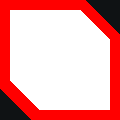
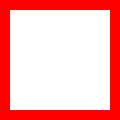
Updated look
Space background + more

Changed region(s): [[0.675, 0.0, 1.0, 0.325], [0.0, 0.675, 0.325, 1.0]]

diff --git a/index.html b/index.html
@@ -13,53 +13,53 @@
         <link rel="preconnect" href="https://fonts.googleapis.com">
         <link rel="preconnect" href="https://fonts.gstatic.com" crossorigin>
         <link href="https://fonts.googleapis.com/css2?family=Orbitron:wght@600&display=swap" rel="stylesheet"> 
-		<base href="/alphatiuswebsite/">
+		<!--<base href="/alphatiuswebsite/">-->
 		<script src="javascript/jquery-3.5.1.min.js"></script>
-		<link href="images/alphlogo.png" rel="icon">
+		<link href="images/alphatius-icon.png" rel="icon">
 		<link href="alphstyle.css" rel="stylesheet">
 		<title>Alphatius Website</title>
 </head>
 
-	<body>
-		
-		<h1><img src="images/alphlogo.png" alt="A" height="48" width="48">LPHATIUS</h1>
-		
-		<div id="navbarspot"></div>
-		
-		<h2>THE NEXT GENERATION OF ARENA-SHOOTERS IS HERE</h2>
-		<p class="uppercase">Test your skills in this fast-paced, action-packed arena</p>
-		<div class="img-container">
-			<video class="home-video" width="960" height="560" autoplay muted loop>
-				<source src="videos/home/showoff.webm" type="video/webm">
-			</video>
-		</div>
-		<h2>UNIQUE WEAPONS WITH A PLAYSTYLE FOR EVERYONE</h2>
-		<p class="uppercase">Whether you like charging in head-first, accumulating frags from afar, or something in-between,
-		there's always a weapon for you</p>
-		<div class="weap-icon-container">
-			<img class="weap-icon" src="images/weapons/photoncarbine.png" alt = "Missing IMG">
-			<img class="weap-icon" src="images/weapons/c14.png" alt = "Missing IMG">
-			<img class="weap-icon" src="images/weapons/particlesplitter.png" alt = "Missing IMG">
-			<img class="weap-icon" src="images/weapons/teslasmg.png" alt = "Missing IMG">
-			<img class="weap-icon" src="images/weapons/sparkcannon.png" alt = "Missing IMG">
-			<img class="weap-icon" src="images/weapons/flamespitter.png" alt = "Missing IMG">
-			<img class="weap-icon" src="images/weapons/beamrifle.png" alt = "Missing IMG">
-		</div>
-		<h2>USE YOUR ABILITIES TO OUTPLAY YOUR OPPONENTS</h2>
-		<p class="uppercase">Choose your abilities to further customize your playstyle</p>
-		<div class="img-container">
-			<video class="home-video" width="960" height="480" autoplay muted loop>
-				<source src="videos/home/showoff-abilities.webm" type="video/webm">
-			</video>
-		</div>
-        <br><br>
-        <!--<footer></footer>-->
-        
-		<script>
-			$(function(){
-			  $("#navbarspot").load("pages/navbar/navbar.html");
-			});
-		</script>
-	</body>
+<body>
+
+    <h1><img src="images/alphatius-logo.png" alt="ALPHATIUS"></h1>
+
+    <div id="navbarspot"></div>
+
+    <h2>THE NEXT GENERATION OF ARENA-SHOOTERS IS HERE</h2>
+    <p class="uppercase">Test your skills in this fast-paced, action-packed arena</p>
+    <div class="img-container">
+        <video class="home-video" width="960" height="560" autoplay muted loop>
+            <source src="videos/home/showoff.webm" type="video/webm">
+        </video>
+    </div>
+    <h2>UNIQUE WEAPONS WITH A PLAYSTYLE FOR EVERYONE</h2>
+    <p class="uppercase">Whether you like charging in head-first, accumulating frags from afar, or something in-between,
+    there's always a weapon for you</p>
+    <div class="weap-icon-container">
+        <img class="weap-icon" src="images/weapons/photoncarbine.png" alt = "Missing IMG">
+        <img class="weap-icon" src="images/weapons/c14.png" alt = "Missing IMG">
+        <img class="weap-icon" src="images/weapons/particlesplitter.png" alt = "Missing IMG">
+        <img class="weap-icon" src="images/weapons/teslasmg.png" alt = "Missing IMG">
+        <img class="weap-icon" src="images/weapons/sparkcannon.png" alt = "Missing IMG">
+        <img class="weap-icon" src="images/weapons/flamespitter.png" alt = "Missing IMG">
+        <img class="weap-icon" src="images/weapons/beamrifle.png" alt = "Missing IMG">
+    </div>
+    <h2>USE YOUR ABILITIES TO OUTPLAY YOUR OPPONENTS</h2>
+    <p class="uppercase">Choose your abilities to further customize your playstyle</p>
+    <div class="img-container">
+        <video class="home-video" width="960" height="480" autoplay muted loop>
+            <source src="videos/home/showoff-abilities.webm" type="video/webm">
+        </video>
+    </div>
+    <br><br>
+    <!--<footer></footer>-->
+
+    <script>
+        $(function(){
+          $("#navbarspot").load("pages/navbar.html");
+        });
+    </script>
+</body>
 
 </html>

diff --git a/alphstyle.css b/alphstyle.css
@@ -1,6 +1,7 @@
 body
 {
 	background-color: #0F1214;
+    background-image: url(images/alphatius-background-upscaled.png);
 	color: #FF0000;
 	padding-left: 200px;
 	padding-right: 200px;
@@ -38,10 +39,6 @@ p
 	padding-left: 10px;
 	padding-right: 10px;
 }
-p.maindownload
-{
-	text-align: center;
-}
 h1
 {
 	color: #FF0000;
@@ -50,6 +47,7 @@ h1
 	font-family: 'Orbitron', bold;
 	font-weight: 900;
 	font-size: 60px;
+    margin: 20px;
 }
 h2
 {
@@ -95,7 +93,7 @@ li.mainMenuElement
 {
 	font-family: 'Orbitron', bold;
 	font-weight: 900;
-	font-size: 20px;
+	font-size: 40px;
 	color: white;
 	background-image: url("images/ui/navbar-button.svg");
 	background-size: 100%;
@@ -107,7 +105,7 @@ li.mainMenuElement
 	padding-top: 10px;
 	padding-bottom: 10px;
 	padding-inline-start: 0px;
-	width: 250px;
+	width: 300px;
 }
 li.mainMenuElement:hover
 {
@@ -120,7 +118,7 @@ a.menubutton
 	text-align: center;
 	font-family: 'Orbitron', bold;
 	font-weight: 600;
-	font-size: 20px;
+	font-size: 24px;
 	text-decoration: none;
 	color: white;
 	margin: 0;

diff --git a/pages/navbar.html b/pages/navbar.html
@@ -1,0 +1,19 @@
+<nav>
+		<base href="../">
+<link href="https://fonts.googleapis.com/css?family=Orbitron&display=swap" rel="stylesheet">
+<link href="alphstyle.css" rel="stylesheet">
+<ul class="mainMenu"> 
+    <li class="mainMenuElement">
+        <a class="menubutton" href="index.html">HOME</a> 
+    </li>
+    <li class="mainMenuElement">
+        <a class="menubutton" href="pages/about.html">ABOUT</a> 
+    </li>
+    <li class="mainMenuElement">
+        <a class="menubutton" href="https://discord.gg/MqXv8FkCmX">DISCORD</a> 
+    </li>
+    <li class="mainMenuElement">
+        <a class="menubutton" href="https://www.dropbox.com/scl/fi/lb5w5ifemm1htg9navrp0/alphatius2-installer-004.exe?rlkey=tx0db5ia3qujls8bwrmsx4qs4&st=9jwitq0x&dl=1">DOWNLOAD</a> 
+    </li>
+</ul>
+</nav>

diff --git a/pages/about.html b/pages/about.html
@@ -15,7 +15,7 @@
         <link href="https://fonts.googleapis.com/css2?family=Orbitron:wght@600&display=swap" rel="stylesheet"> 
 		<base href="../">
 		<script src="javascript/jquery-3.5.1.min.js"></script>
-		<link href="images/alphlogo.png" rel="icon">
+		<link href="images/alphatius-icon.png" rel="icon">
 		<link href="alphstyle.css" rel="stylesheet">
 		<title>Alphatius Website - About</title>
 </head>
@@ -105,7 +105,7 @@
         
 		<script>
 			$(function(){
-			  $("#navbarspot").load("pages/navbar/navbar.html");
+			  $("#navbarspot").load("pages/navbar.html");
               $("#multiplayerfeature").show(500);
               $("#botfeature").hide(0);
               $("#tutorialfeature").hide(0);
